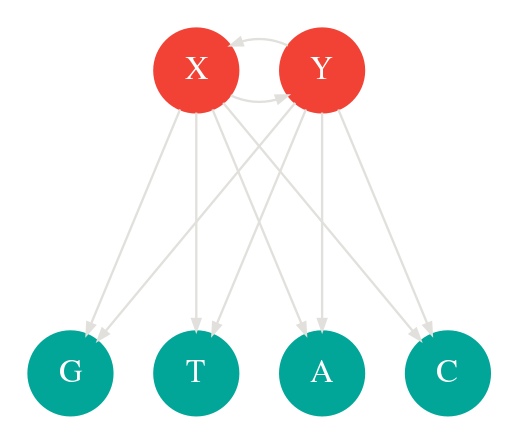
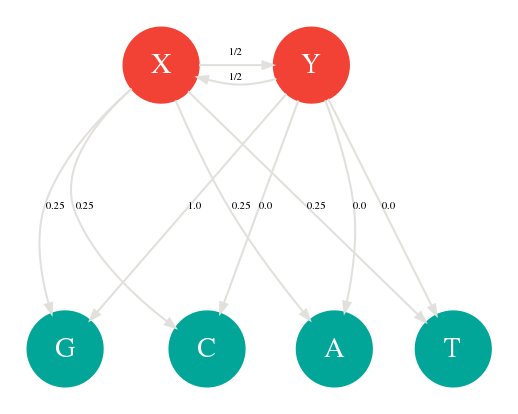
bon.. j'ai fini ! Reste la typo et les liens

diff --git a/content/markov.md b/content/markov.md
@@ -10,49 +10,49 @@ SIDEBARIMAGE:../images/common/stat_banner.jpg
 
 
 Les chaines de Markov sont très populaire en bioinformatique, en particulier lorsqu'on manipule des séquences d'ADN. 
-Je me les represente comme des générateurs de séquences aléatoire (ou processus stochastique) dont la probabilité de chaque base depend de la précédente.
-Dans ce billet, nous alons les définir et voir comment les utiliser avec application pratique en génétique.
+Je me les represente comme des machines générant de séquences aléatoires, ou processus stochastique, dont la probabilité d'apparition de chaque nucléotide depend du précédent.    
+Dans ce billet, nous alons les définir et voir comment les utiliser avec l'ADN.
 
 ## Un dé à 4 faces
-Imaginez un dé à 4 face sur lesquelles sont representé chaque base de l'ADN : A,C,G,T. Lancez ce dé plusieurs fois en notant chaque résultat.
-Par exemple, le premier lancé vous donne un A, le deuxième un T, le troisème un A etc ... jusqu'à générér une longue séquence.
-Si le dé n'est pas truqué, à chaque lancé, vous avez exactement une chance sur 4 d'obtenir chaques bases.    
-Une façon de representer ce tirage aléatoire est d'utiliser un graphe ou chaque noeuds represente les symboles ou état et les arrêtes les probabilités de transitions. Dans la figure ci-dessous, il y a 4 états (A,C,G,T) et 16 transitions avec leurs probabilité toutes égales à 1/4. 
-Pour générger une séquence, choissiez un état au hasard, puis faite une marche dans ce graphe en suivant les probabilité de transition. Notez la valeur de chaque noeuds traversé. Bravo, vous venez de générer une séquence à l'aide une chaine de Markov. 
+Imaginez un dé à 4 face sur lesquelles sont representé les quatres bases A,C,G,T de l'ADN. Lancez ce dé plusieurs fois en notant chaque résultat.
+Par exemple, le premier lancé vous donne un A, le deuxième un T, le troisème un A et ainsi de suite jusqu'à générér une longue séquence.
+Si le dé n'est pas truqué, à chaque lancé, vous avez exactement une chance sur 4 d'obtenir chacune des bases.         
+Une façon de representer ce tirage aléatoire est d'utiliser un graphe, appelé diagramme de transition, ou chaque noeuds represente les bases ou état et les arrêtes les probabilités de transitions. Dans la figure ci-dessous, il y a 4 états (A,C,G,T) et 16 transitions avec leurs probabilité toutes égales à 1/4. Par exemple, La probabilité d'obtenir un C après en A est de 1/4 et il en va de même pour toutes les autres transitions.     
+Pour générger une séquence, choissiez un noeud au hasard, puis faite une marche dans ce graphe en suivant les probabilité de transition. Notez la valeur de chaque noeuds traversé. Bravo, vous venez de générer une séquence à l'aide une chaine de Markov. 
 
 <div class="figure">     <img src="../images/markov/animation.gif" />      <div class="legend">Chaine de Markov. Il y a 4 états (A,C,G,T) et 4x4=16 transitions possible toutes avec une probabilité de 1/4</div> </div>   
 
 
 ## Définition d'une chaine de Markov
 Une chaine de Markov se défini donc par une vecteur d'état E et une matrice de transition P.    
-Dans notre cas, il y a 4 états possibles soit $$E = \{A,C,G,T\}$$ et 16 probabilités de transition que l'on peut representer par la matrice suivante avec A,C,G,T en ligne et en colonne:
+Dans notre cas, il y a 4 états possibles soit $$E = \{A,C,G,T\}$$ et 16 probabilités de transition que l'on peut representer par une matrice carré suivante avec A,C,G,T en ligne et en colonne. Par exemple la transition A vers A correspond se lis dans la matrice au coordonnée (0,0). La transition A vers C, au coordonnée (0,1) etc ...
 
 $$
 T = \begin{bmatrix}
-1/4 &  1/4 & 1/4 & 1/4 \\ 
-1/4 & 1/4  & 1/4 & 1/4\\ 
-1/4 & 1/4 & 1/4 & 1/4\\ 
-1/4 & 1/4 & 1/4 & 1/4 \\
+0.25 &  0.25 & 0.25 & 0.25 \\ 
+0.25 & 0.25  & 0.25 & 0.25 \\ 
+0.25 & 0.25 & 0.25 & 0.25\\ 
+0.25 & 0.25 & 0.25 & 0.25 \\
 \end{bmatrix}
 $$
 
-En changant les probabilité de transition, nous pouvons alors générer différente famille de séquence. Par exemple dans la figure suivante, j'ai modifié les transition G -> C et C -> G pour obtenir des séquences riche en GC.
+En changant les probabilité de transition, nous pouvons alors générer des séquences avec des profils particulier. Dans la figure suivante, j'ai donnée une probabilité de 0.7 aux transitions G -> C et C -> G. Avec cette nouvelle table de transition, je peux alors générer des séquence riche en GC.
 
 
-<div class="figure">     <img src="../images/markov/animation2.gif" />      <div class="legend"> GCGAAGGCGTAAGGGCGCCGCGCGTTGCGCGTTTGCGCGCGCGCGCTAGCGCCGCTCTACGGGTAGCGCGGCGCGATGCTCATTATTGCGTCCACTAAAC.</div> </div>   
+<div class="figure">     <img src="../images/markov/animation2.gif" />      <div class="legend"> Dans ce graphe, les probabilités de transitons G->C et C->G sont à 0.7. Pour respecter les proportions, d'autre transitions sont passé à 0.1 </div> </div>   
 
 
 
 ## Distribution stationnaire
-En faisant tourner votre générateur assez longtemps et en comptant la fréquence d'apparition de chaque lettre, vous obtiendrez une distribution qui deviendra stationnaire au bout d'un certain temps. C'est à dire que peut importe la longueur de la séquence, la probabilité de voir apparaitre une certaine lettre dans la séquence sera toujours la même. 
-Les histogrammes ci-dessous montre la fréquence des 10,50,100,500,1000 et 5000 nucléotides premier nucléotide généré par une chaine de markov utilisant la matrice de transition vu plus haut. Comme on peut s'y attendre, cette distribution tend à être uniforme.  
+En faisant tourner votre générateur assez longtemps et en comptant la fréquence d'apparition de chaque base, vous obtiendrez une distribution qui deviendra stationnaire au bout d'un certain temps. C'est à dire que peut importe la longueur de la séquence, la probabilité de voir apparaitre une certaine base dans la séquence sera toujours la même. 
+Les histogrammes ci-dessous montre la fréquence des 10,50,100,500,1000 et 5000 premier nucléotide généré par une chaine de markov en utilisant la matrice de transition du dé à 4 faces. Comme on peut s'y attendre, cette distribution converge pour devenir uniforme.  
 
 <div class="figure">     <img src="../images/markov/distribution1.png" />      <div class="legend"> Transition equiprobable</div> </div>   
 
 
 Ces distributions se calculer en faisant un peu d'algèbre linéaire. 
 On choisi de representer la distribution des 4 bases par un vecteur $\pi_{0} = [pA, pC, pG, pT]$ à un temps donnée t. Par exemple, si nous choissisons une séquence commençant par un A, alors la distribution au temps $t_0$ est $\pi_{t}$ = [1,0,0,0].
-On calcule alors la distribution au temps t+1 en faisant le produit du vecteur par la matrix de transition T. 
+On peut alors calculer la distribution au temps t+1 en faisant le produit du vecteur par la matrix de transition T. 
 
 $$
 \pi_{t+1} = \pi_{t} T
@@ -64,15 +64,18 @@ $$
 \pi_{t} = \pi_{0}T^n
 $$
 
-Trouver la distribution stationnaire, c'est chercher la distribution qui ne change pas:
+Trouver la distribution stationnaire, c'est chercher celle qui ne change pas entre deux temps. C'est à dire résoudre l'équation suivante :
 
 $$
 \pi = \pi T
 $$
 
+Sachant cela, vous allez pouvoir construire des générateurs de séquences aléatoire avec une distribution désiré.   
+De façon beaucoup plus général, utilisé les chaines de markov comme générateurs aléatoire d'une distribution particulière est à la base des algorithmes MCMC. Principalement en inférence bayesienne pour calculer une distribution a posteriori. Mais ça c'est une autre pair de manche ! 
+
 
 ## Un modèle d'apprentissage 
-Si maintenant, au lieux de générer des séquences à partir d'une chaine de Markov nous faisions l'inverse. C'est à dire construire une chaine de Markov en observant des séquences. Pour cela il suffit de comptabiliser toutes les transitions existante dans une jeux de séquence pour en déduire les probabilité de la matrice de transition.
+Si maintenant, au lieux de générer des séquences à partir d'une chaine de Markov nous faisions l'inverse. C'est à dire construire une chaine de Markov en observant des séquences. Pour cela il suffit de comptabiliser toutes les transitions existante dans une jeux de séquence pour déduire les probabilité de la matrice de transition. Parmi les séquences suivante, il y a 5 transition TA sur 32 transitions possible. On notera alors dans notre matrice que la transition T->A est de 5/32. On fait de même pour les autres transitions pour obtenir une chaine de markov.
 
 <div class="figure">
 <code>
@@ -88,9 +91,9 @@ CGCCA <br/>
 <div class="legend">Chaine de Markov</div>
 </div>
 
-Il est alors possible de générer une nouvelle séquence semblable au séquences ayant été utilisé pour construire le modèle. C'est de cette façon par exemple que du texte aléatoire est généré. Voir ici.
-On peut egalement tester si une nouvelle séquence fait partie de la même famille que les séquences du modèle. Par exemple quel est la probabilité que la séquence ATTCG soit générer par une chaine de Markov $\theta$  ?
-Etant donnée que la probabilité d'apparition d'un symbole depend uniquement du précédement, la probabilité peut s'écrire comme le produit de chaque transition: 
+Il est alors possible de générer une nouvelle séquence semblable à celles utilisé dans la construction du modèle. C'est de cette façon que les générateur de texte aléatoire fonctionne. Par exemple, ce site qui gènere des tweet de Donald Trump https://filiph.github.io/markov/.
+En génétique, on va plutôt tester si une nouvelle séquence a le même profil que les séquences d'un modèle $\theta$. Par exemple quel est la probabilité que la séquence ATTCG soit une séquence de régulation ? 
+Etant donnée que la probabilité d'apparition d'une base depend uniquement du précédement, la probabilité de ATTCG peut s'écrire comme le produit de chaque transition: 
 $$
 p(ATTCG|\theta) = p(A) * p(T|A) * p(T|A) * p(T|T) * p(C|T) * p(G|C)
 $$
@@ -101,23 +104,32 @@ $$
 P(S|\theta) = \prod_{0}^{n} p(S_{n}|S_{n-1}) 
 $$
 
-Et comme les additions c'est mieux que les multiplications, on calcule la vraissemblance : 
+Et comme les additions c'est mieux que les multiplications, on calcule la vraissemblance via le logarithme: 
 
 $$
 L_{\theta}(S) = \sum_{0}^{n} log(p(S_{n}|S_{n-1})) 
 $$
 
+En lisant les probabilité de la table de transition, on peut alors calculer un score indiquant si une séquence fait parti d'une famille ou non. Ce genre d'algorithme s'utilise par exemple pour détécter des homologies de protéines. En réalité ce sont des chaines de Markov plus complexe, appelé chaine de markov caché que je vais décrire rapidement.
 
-
-## Vers les chaines de Markov cachées 
-Une chaine de markov cachée est simplement une chaine de Markov ou certain des états sont caché. Plus préscisement ce sont des états qui ne font pas partie de la séquence générés. Reprenons notre dé, appelons X et ajoutons un deuxième dé truqué appelé Y contenant uniquement des G sur ces 4 faces. On lance toujours un seul dé pour générer une séquence. sauf que cette fois, à chaque lancé, il y a une chance sur 2 que nous changions de dé. La chaine de Markov peut être representé comme suite. 
+## Les chaines de Markov cachées 
+Une chaine de markov cachée est simplement une chaine de Markov ou certain des états sont caché. Plus préscisement ce sont des états qui ne font pas partie de la séquence générés. Reprenons notre dé, appelons le X et ajoutons un deuxième dé truqué appelé Y contenant uniquement des G sur ces 4 faces. On lance toujours un seul dé pour générer une séquence. sauf que cette fois, à chaque lancé, il y a une chance sur 2 que nous changions de dé. La chaine de Markov peut être representé comme suite. On dit que X et Y sont les états cachés avec 4 probabilités d'emission chacun.
 
 <div class="figure">     <img src="../images/markov/hmm.png" />      <div class="legend">Chaine de Markov</div> </div>   
 
-Comme vu plus haut, il est possible de construire une chaine de Markov en apprenant à partir d'une liste de séquence. Mais cette fois, les probabilités de transitionss cachés sont beaucoup plus difficile à calculé car non observé. 
-On peut les estimer en cherchant les valeurs les plus vraissemblance avec par exemple l'algorithme de Baum-Welch permet de résoudre ce problème. Il s'agit d'un algorithme d'esperance maximisation que nous avons déjà vu dans un autre billet. Notez aussi l'algorthme de Viterbi très utilisé en bioinformatique car il permet de trouver des alignements prenant les insertions et délétion en considération.
+Ces 2 états cachés peuvent representer par exemple les introns et les exons. Ils est peut être par exemple plus rare d'avoir du GC dans un exon que dans un intron. Les probabilités d'emissions seront différents selon l'état caché actuel.
+On utilise egalement les chaine de markov caché pour modéliser les insertions et les délétions. C'est ce genre de modèle qui est utilisé dans les HMM:
 
+<div class="figure">     <img src="../images/markov/hmm2.png" />      <div class="legend">Chaine de Markov</div> </div>   
 
+Comme vu plus haut, il est possible de construire une chaine de Markov caché en apprenantde depuis un corpus de séquence. Mais cette fois, les probabilités de transitionss cachés sont beaucoup plus difficile à calculé car on ne les observe pas. 
+On peut les estimer en cherchant les valeurs les plus vraissemblance avec par exemple l'algorithme de Baum-Welch. Il s'agit d'un algorithme d'esperance maximisation que nous avons déjà vu dans un autre billet. Notez aussi l'algorthme de Viterbi qui permet d'identifier le chemin le plus probable, lorsqu'on désire aligner une séquence sur un profil HMM. 
+
+## En bref 
+Les chaine de markov sont des processus stochastiques dont l'état futur dépend uniquement du présent. Elles peuvent être utilisé en génétique pour générer des séquences mais surtout comme modèle d'apprentissage comme les profil HMM.
+
+http://nazejournal.free.fr/article.php?page=chaines-markov
+https://mattiacinelli.com/hidden-markov-model-applied-to-biological-sequence-part-2/
 
 ### Référence 
 - [Super vidéo d'Aurélien Géron (en)](https://www.youtube.com/watch?v=ErfnhcEV1O8)
